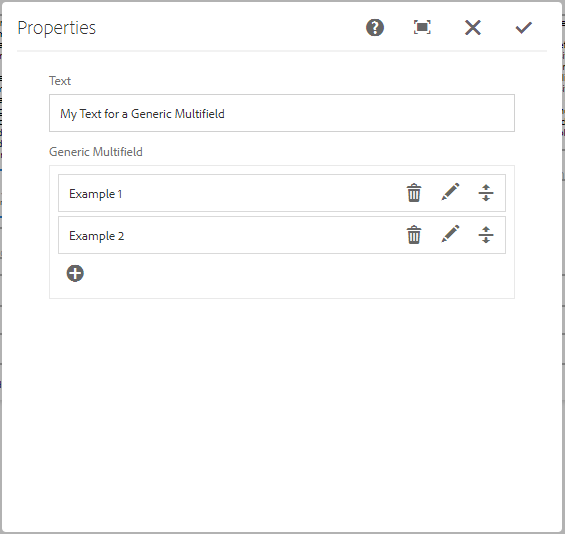
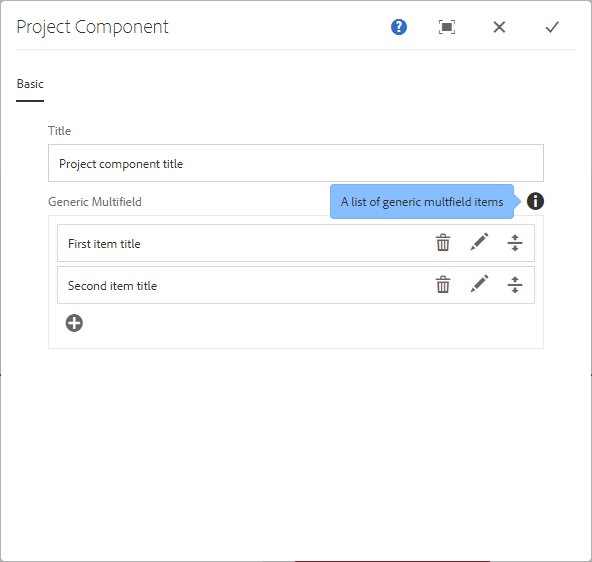
Update ReadME to current impl. Introduce some property documentation

diff --git a/README.md b/README.md
@@ -41,44 +41,95 @@ With the common AEM archetype it can be added within the embedded configuration 
 ```
 
  
-#### Dialog
-Use the Generic Multifield in your _cq_dialog.xml of a AEM 6.4 (with Touch UI) like this example:
+#### Component Dialog
+Example usage of the Generic Multifield in your component _cq_dialog.xml definition within AEM 6.4 (with Touch UI):
 ```xml
-    <genericmultifield
-        jcr:primaryType="nt:unstructured"
-        sling:resourceType="namics/genericmultifield"
-        fieldLabel="Generic Multifield"
-        itemDialog="path/to/a/item-dialog"
-        itemStorageNode="items"
-        itemNameProperty="title"
-        name="./items"
-        minElements="3"
-        maxElements="5"
-        required="{Boolean}true" />
+<!-- Within the component dialog definition -->
+<title
+       jcr:primaryType="nt:unstructured"
+       sling:resourceType="granite/ui/components/coral/foundation/form/textfield"
+       fieldLabel="Title"
+       name="./title"/>
+<genericmultifield
+       jcr:primaryType="nt:unstructured"
+       sling:resourceType="namics/genericmultifield"
+       fieldLabel="Generic Multifield"
+       fieldDescription="A list of generic multfield items"
+       itemDialog="/your/project/path/component/item-dialog.xml"
+       itemNameProperty="itemTitle"
+       minElements="2"
+       maxElements="5"
+       required="{Boolean}true"
+       itemStorageNode="./items"/>
 ```
-
-Example dialog:
 
 ![main dialog](docs/main.png)
 
+##### Properties
+**itemDialog**: path reference to the dialog definition of a generic multifield item.<br />
+**itemNameProperty**: Defines the value representation of a generic multifield entry within the component dialog. Must be a reference to a item dialog property.<br />
+**minElements**: Defines the min amount of generic multifield entries.<br />
+**maxElements**: Defines the max amount of generic multifield entries.<br />
+**required**: If set to "{Boolean}true", the main component dialog will not validate until at least one item hast been defined.<br />
+**itemStorageNode**: Defines the parent node name created within the component node. Generic multifield items will be save beneath this node.<br />
+
 #### Item-Dialog
 ```xml
-    <jcr:root xmlns:sling="http://sling.apache.org/jcr/sling/1.0"
-            xmlns:jcr="http://www.jcp.org/jcr/1.0"
-            xmlns:nt="http://www.jcp.org/jcr/nt/1.0"
+<?xml version="1.0" encoding="UTF-8"?>
+<jcr:root xmlns:sling="http://sling.apache.org/jcr/sling/1.0"
+          xmlns:jcr="http://www.jcp.org/jcr/1.0"
+          xmlns:nt="http://www.jcp.org/jcr/nt/1.0"
+          jcr:primaryType="nt:unstructured"
+          sling:resourceType="cq/gui/components/authoring/dialog"
+          jcr:title="Item Dialog">
+    <content
             jcr:primaryType="nt:unstructured"
-            jcr:title="Item Dialog"
-            sling:resourceType="cq/gui/components/authoring/dialog">
-            <!-- normal Granite UI dialog definition comes here !-->
-    </jcr:root>
+            sling:resourceType="granite/ui/components/coral/foundation/tabs">
+        <items
+                jcr:primaryType="nt:unstructured">
+            <basicTab
+                    jcr:primaryType="nt:unstructured"
+                    sling:resourceType="granite/ui/components/coral/foundation/fixedcolumns"
+                    margin="{Boolean}true"
+                    jcr:title="Basic">
+                <items
+                        jcr:primaryType="nt:unstructured">
+                    <column
+                            jcr:primaryType="nt:unstructured"
+                            sling:resourceType="granite/ui/components/coral/foundation/container">
+                        <items jcr:primaryType="nt:unstructured">
+                            <itemTitle
+                                    jcr:primaryType="nt:unstructured"
+                                    sling:resourceType="granite/ui/components/coral/foundation/form/textfield"
+                                    fieldLabel="Item Title"
+                                    fieldDescription="Item Title Description"
+                                    required="{Boolean}true"
+                                    name="./itemTitle"/>
+                            <itemText
+                                    jcr:primaryType="nt:unstructured"
+                                    sling:resourceType="granite/ui/components/coral/foundation/form/textarea"
+                                    fieldLabel="Item Text"
+                                    fieldDescription="Item Text Description"
+                                    name="./itemText"/>
+                            <itemPath
+                                    jcr:primaryType="nt:unstructured"
+                                    sling:resourceType="granite/ui/components/coral/foundation/form/pathbrowser"
+                                    fieldLabel="Item Path"
+                                    fieldDescription="Item Path Description"
+                                    name="./item Path"/>
+                        </items>
+                    </column>
+                </items>
+            </basicTab>
+        </items>
+    </content>
+</jcr:root>
 ``` 
-
-Example item dialog:
 
 ![multifield dialog](docs/item.png)
 
 #### Storage
-In the reporsitory the content is stored like this:
+In the repository the content is stored as follows:
 
 ![content](docs/repo.png)
 
